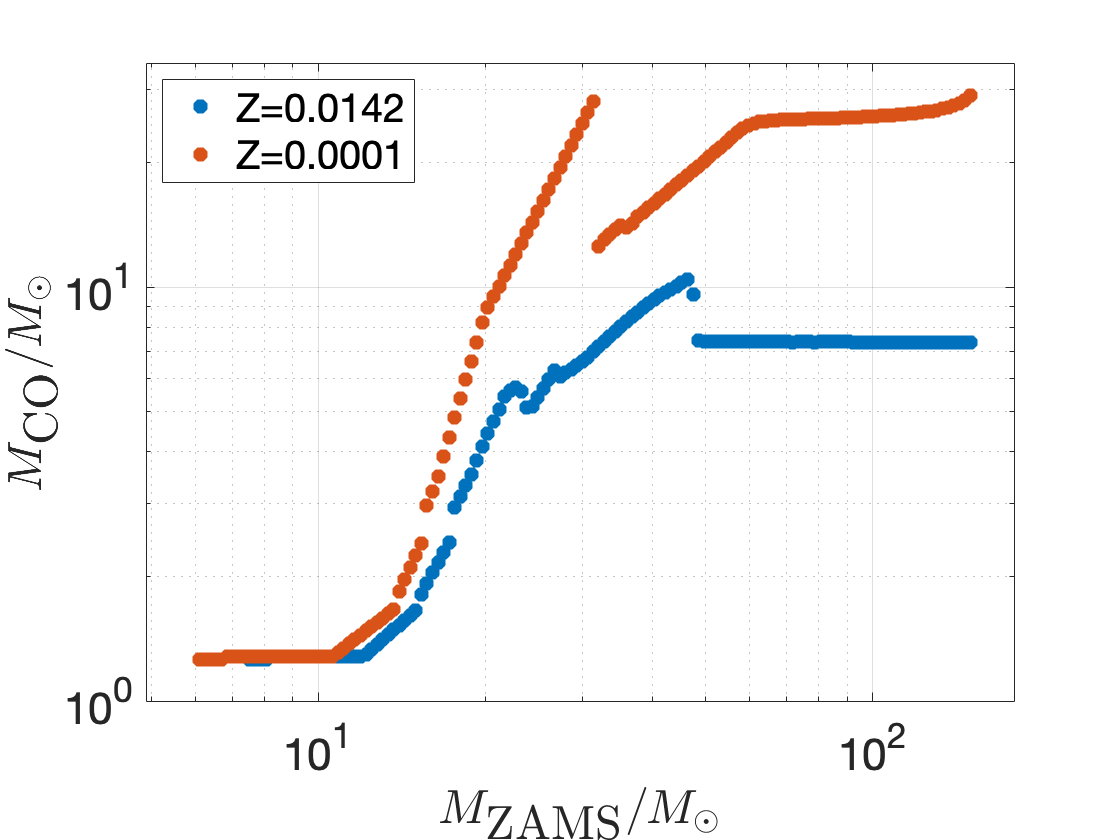
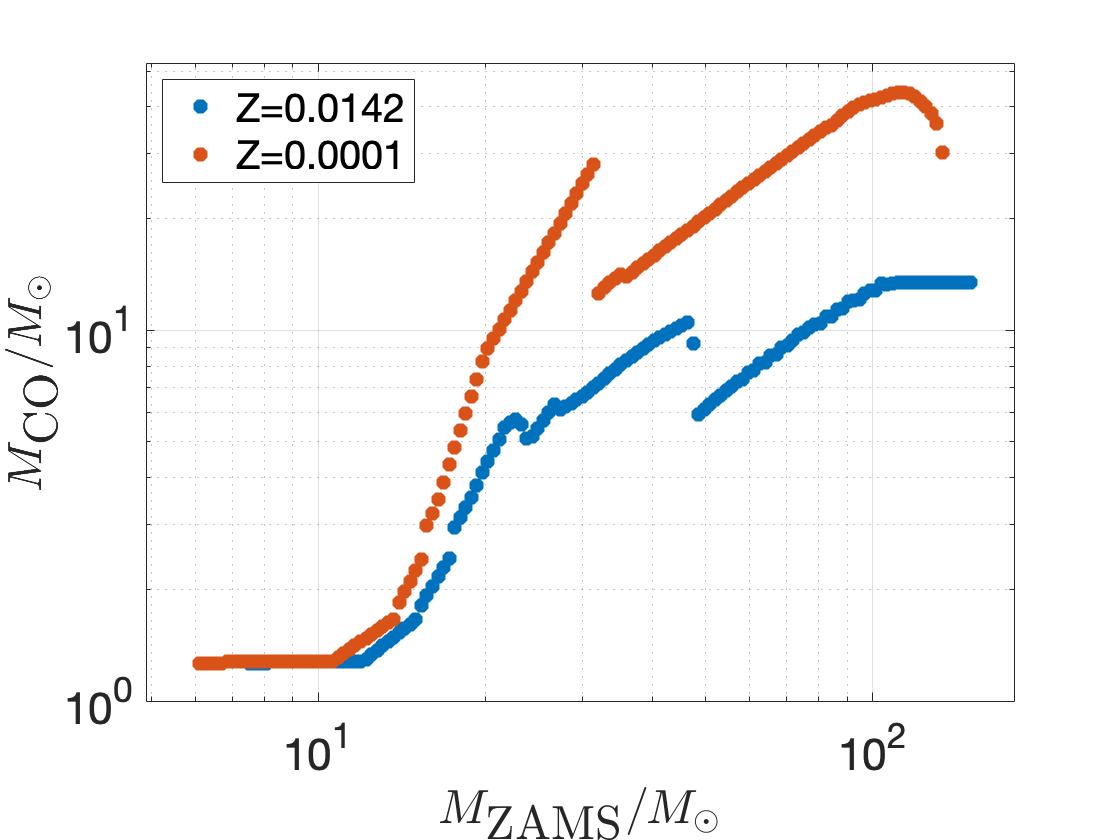
Figure update

Changed region(s): [[0.1562, 0.0929, 0.875, 0.8048], [0.0625, 0.3095, 0.125, 0.4333]]

diff --git a/PlottingRadiiRemnants.m b/PlottingRadiiRemnants.m
@@ -191,7 +191,7 @@ end;
 %Redo figures 3,4 of Mandel & Farmer using SSE file
 M=zeros(N,1); R0=zeros(N,1); RMS=zeros(N,1); RHG=zeros(N,1); RHeB=zeros(N,1); RAGB=zeros(N,1); MCO=zeros(N,1);
 %solar, Z=0.0142
-prefix='/Users/ilyam/Work/COMPAS/COMPAS/src/SSEgridMandelFarmerSmallStepZ0001/Detailed_Output/SSE_Detailed_Output_';
+prefix='/Users/ilyam/Work/COMPAS/COMPAS/src/SSEgridMandelFarmerSmallStep/Detailed_Output/SSE_Detailed_Output_';
 for(i=1:N),
     file=[prefix,num2str(i-1),'.h5'];
     mass=h5read(file,'/Mass');
